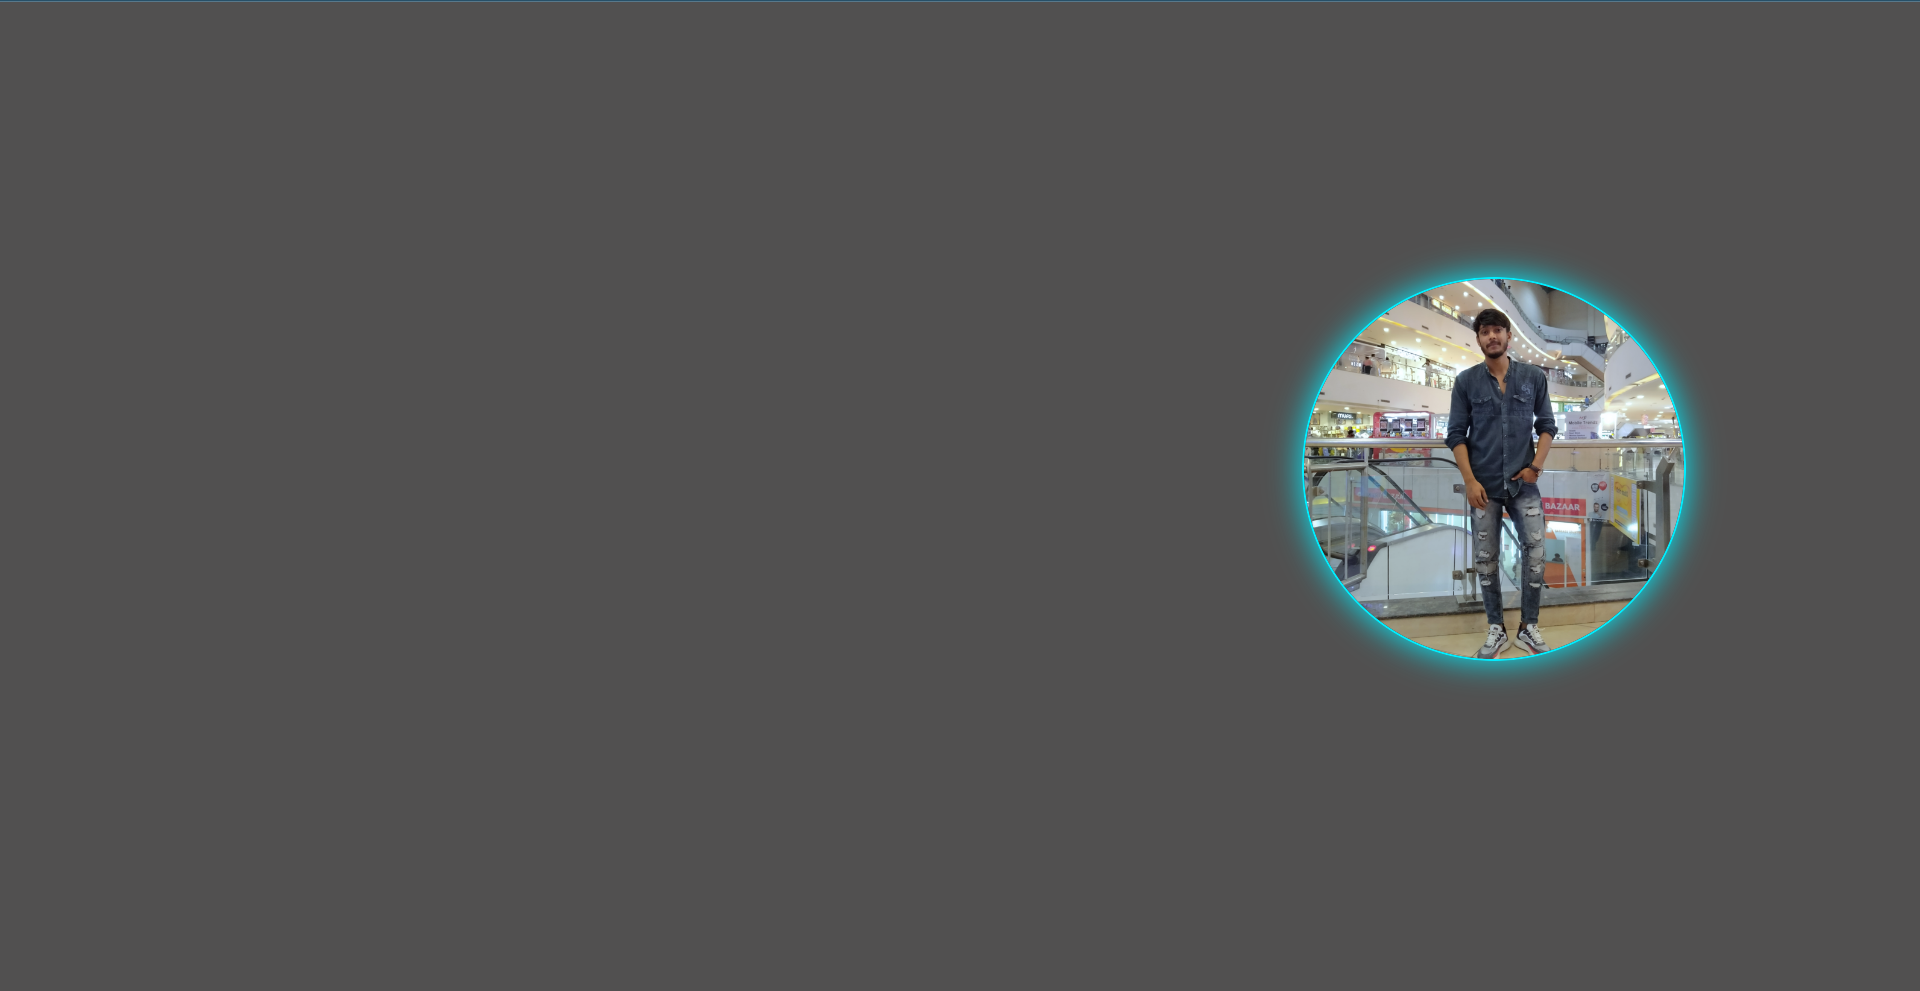
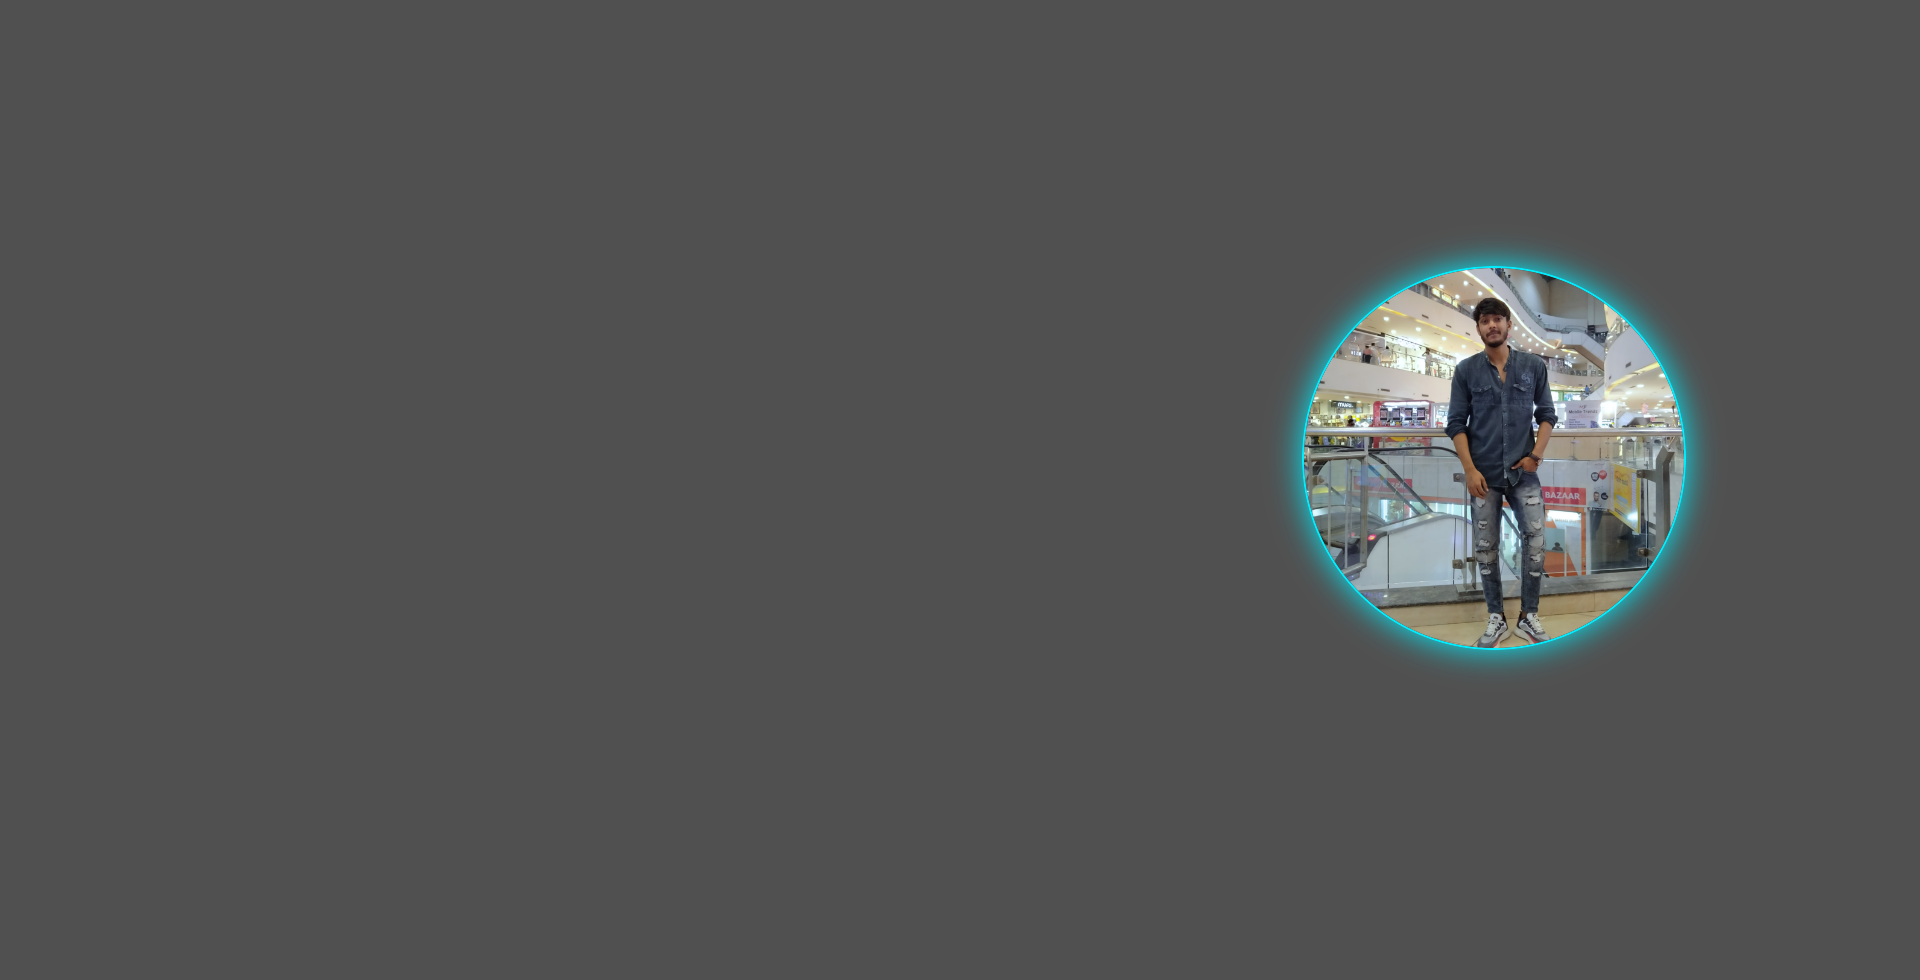
modify code

Changed region(s): [[0.6562, 0.2449, 0.875, 0.6735]]

diff --git a/stylesheet.css b/stylesheet.css
@@ -9,7 +9,48 @@
 body{
     color: #ededed;
     background: #515050;
+    /* overflow-x: scroll; */
 }
+
+/* Hide the navigation menu by default */
+.navbarshow {
+    display: none;
+  }
+.navbarshow a{
+    text-decoration: none;
+    color: white;
+  }
+.navbarshow div{
+    text-decoration: none;
+    color: white;
+    margin-bottom: 15px ;
+    transition: 0.2s  ease-in-out;
+  }
+.navbarshow div:hover{
+   background: #576d6b;
+   padding: 5px;
+   border-radius: 5px;
+  }
+.navbarshow :last-child{
+    text-decoration: none;
+    color: white;
+    margin-bottom: 1px ;
+  }
+  
+  /* Apply your styles for the navigation menu when it's active */
+  .navbarshow.active {
+    border-radius:5px ;
+    margin-left: 10px;
+    display: block;
+    margin-top: 100%;
+    border: ipx solid rgba(0, 0, 0, 0.479);
+    padding: 15px;
+    width: 100px;
+   background-color: #081b29;
+   box-shadow: #081b29b9 0px 0px 1000px 1200px ;
+    /* Add your styles here for showing the navigation menu */
+  }
+  
 
 .header{
     position: fixed;
@@ -23,6 +64,14 @@ body{
     background:#6d6c6c;
     box-shadow: 0 0 15px #0ef;
     height: 8vh;
+}
+.btn{
+    display: none;
+    font-size:36px;
+}
+
+.btn span{
+    color: #0ef;
 }
 
 .logo{
@@ -38,8 +87,13 @@ body{
     
 }
 
+.navbar{
+    padding-left: 24%;
+}
+
+
 .navbar a{
-    display: inline-block;
+    display:inline-block;
     font-size: 25px;
     color: #fff;
     text-decoration: none;
@@ -51,6 +105,8 @@ body{
     animation-delay:calc(.2s *var(--i));
 }
 
+
+
 .navbar a:hover{
     color: #0ef;
 }
@@ -60,9 +116,7 @@ body{
     width: 100%;
     justify-content: space-between;
     height: 100vh;
-    background:  #696767;;
-    background-size: cover;
-    background-position: center;
+    background:  #515050;
     display: flex;
     align-items: center;
     padding:70px 60px 0 ;
@@ -70,7 +124,18 @@ body{
     animation:slideright 1s ease forwards;
     animation-delay: 0.4s;
 }
-
+@media only screen and (min-width:1000px) {
+    .home{
+    background-image: url('Image/km.png') !important;
+    background-size: contain;
+    background-position: center;
+    background-repeat: no-repeat;
+    }
+    .hideandshow{
+        display: none !important;
+        /* width: ; */
+    }
+}
 .home-content{
     max-width: 600px;
 }
@@ -252,6 +317,7 @@ body{
   line-height: 1.4;
   margin-bottom: 4rem;
 }
+
 .sub-title{
     align-items: center;
     font-size:60px;
@@ -355,10 +421,10 @@ section{
     color: #0ef;
 }
 
+
 .container1, .container2 {
     flex: 1;
     padding:10px; 
-   
 }
 
 
@@ -927,4 +993,141 @@ section{
         transform : translateY(0px);
         opacity: 1;
     }
+}
+
+
+/*This is the method to resolve the problem of respponsive nature of the site*/
+@media only screen and (max-width:1000px){
+    .container {
+        display: block;
+        /* border: 1px solid; */
+        height: auto;
+        max-width: 980px !important;
+        width: 100vw !important;
+        padding: 0px !important;
+    }
+    .container1 {
+        width: 100%;
+        display: block;
+        border: 2px solid transparent;
+        margin:10% 0px !important;
+        padding: 20px !important
+    }
+    .container1 .Head{
+        font-size: 60px;
+        margin-bottom: 10px !important;
+    }
+
+.btn{
+    display: block;
+    /* position: ; */
+    max-width: 50px !important;
+    /* height: 10px !important; */
+    background-color: transparent;
+    border: none;
+}
+.btn img{
+    width: 70px !important;
+    height:20px !important;
+}
+.navbar{
+    display: none;
+}
+    .container2{
+        width: 100vw;
+        height:auto !important;
+        padding: 0 20% !important;
+        margin-left: 0px !important;
+        margin-top: 0% !important;
+    
+    }
+
+    .heading1{
+        text-align: center;
+        text-decoration: underline;
+        text-underline-offset: 10px;
+        text-decoration-thickness:5px;
+        margin-bottom: 10px !important;
+   }
+
+   .radial-bars{
+    width: auto !important;
+    /* border: 2px solid; */
+    display: flex;
+    justify-content: space-between !important;
+}
+   .radial-bar{
+   margin-top: 5px !important;
+   
+}
+
+.row{
+    margin-bottom: 10px;
+}
+.row img{
+    width: 96% !important;
+    border-radius: 8px;
+    display: block;
+    margin: 10px;
+    transition: transform 0.5s;
+}
+
+.main-text {
+    padding-top: 13px !important;
+    margin-top: 20px;
+}
+.contact{
+    display: inline-block;
+    grid-template-columns: repeat(2, 1fr);
+    align-items: center;
+    gap: 3rem;
+    padding-left: 30px;
+    margin-top: 20%;
+}
+
+.home {background-size: contain;
+background-repeat: no-repeat ;
+/* background-position: -10px -10px; */
+
+}
+#homebgimg{
+    background-image: none !important;
+    background-size: cover;
+}
+.hideandshow{
+    /* display: none !important; */
+    width: 100px;
+    height: 100px !important;
+}
+
+}
+@media only screen and (max-width:4500px){
+
+    .heading1{
+        text-align: center;
+        text-decoration: underline;
+        text-underline-offset: 10px;
+        text-decoration-thickness:5px;
+        margin-bottom: 10px !important;
+   }
+
+   .radial-bars{
+    width: auto !important;
+    /* border: 2px solid; */
+    display: flex;
+    flex-wrap: nowrap !important;
+    flex-direction: column  !important;
+    justify-content: center !important;
+}
+.radial-bars .radial-bar {
+    width: 100%;
+    height: 170px;
+    margin-bottom: 10px;
+    position: relative;
+    margin-top: 0px !important;
+    /* border: 1px solid red; */
+}
+
+
+
 }

diff --git a/index.html b/index.html
@@ -19,8 +19,23 @@
         <a href="#project" style="--i:5">Projects</a>
         <a href="#contact" style="--i:6">Contact</a>
      </nav>
+     <div style="display: flex;">
+      <button class="btn" id="toggleButton">
+         <span><i class='bx bx-menu'></i></span>
+       </button>
+       <nav class="navbarshow" id="navMenu">
+         <div><a href="#" style="--i:1" class="active">Home</a></div>
+         <div><a href="#services" style="--i:3">Services</a></div>
+         <div><a href="#skills" style="--i:4">Skill</a></div>
+         <div><a href="#project" style="--i:5">Projects</a></div>
+         <div><a href="#contact" style="--i:6">Contact</a></div>
+       </nav>
+   </div>
+
    </header>
-   <section class="home" style="background-image: url(Image/km.png);">
+   <section class="home" id=" homebgimg">
+      <div class="col">
+         <img src="Image/gm.png" class="hideandshow"/>
     <div class="home-content">
         <h3>Hello, It's Me</h3>
         <h1>Abhay Kumar</h1>
@@ -36,6 +51,7 @@
     <a href="#about" class="btn-box">More About Me</a>
 </div>
 <span class="home-imgHover"></span>
+</div>
    </section>
    
    <section class="About" id="about">
@@ -80,9 +96,10 @@
                </div>
                <div>
                   <i class='bx bx-crop' style='color:#00eeff'></i>
-                  <h2>UI/UX Design</h2>
+                  <h2>UI/UX Designer</h2>
                   <p>
-                     I am a skilled UI who possesses a passion.</p>
+                     Design visually appealing user interfaces that enhance 
+                     the user experience (UX) and usability of websites and applications.</p>
                      <a href="#" class="read">learn more</a>
                </div>
             </div>
@@ -198,7 +215,7 @@
                <div class="layer">
                   <h5>YouTube Clone</h5>
                   <p>"Experience the ultimate video sharing platform with our React.js-powered YouTube clone."</p>
-                  <a href="#"><i class='bx bx-link-external' style='color:#00eeff'  ></i></a>
+                  <a href="https://github.com/anirudhkala110/YouTube_Clone_Simple_App.git"><i class='bx bx-link-external' style='color:#00eeff'  ></i></a>
                </div>
             </div>
             <div class="row">

diff --git a/main.js b/main.js
@@ -5,3 +5,35 @@ var typed = new Typed(".text", {
    backDelay:1000,
    loop: true
 });
+
+// Get references to the button and the navigation menu
+const toggleButton = document.getElementById("toggleButton");
+const navMenu = document.getElementById("navMenu");
+
+// Function to hide the navigation menu
+function hideNavMenu() {
+   navMenu.classList.remove("active");
+}
+
+// Add a click event listener to the button
+toggleButton.addEventListener("click", function (event) {
+   // Toggle the "active" class on the navigation menu to show/hide it
+   navMenu.classList.toggle("active");
+   event.stopPropagation(); // Prevent the click event from propagating to document
+});
+
+// Add a click event listener to the document to hide the menu when clicking outside
+document.addEventListener("click", function (event) {
+   const target = event.target;
+
+   // Check if the click target is not the navigation menu or the toggle button
+   if (!navMenu.contains(target) && target !== toggleButton) {
+      hideNavMenu();
+   }
+});
+
+// Add click event listeners to each link to hide the menu when a link is clicked
+const links = navMenu.querySelectorAll("div a");
+links.forEach(function (link) {
+   link.addEventListener("click", hideNavMenu);
+});
